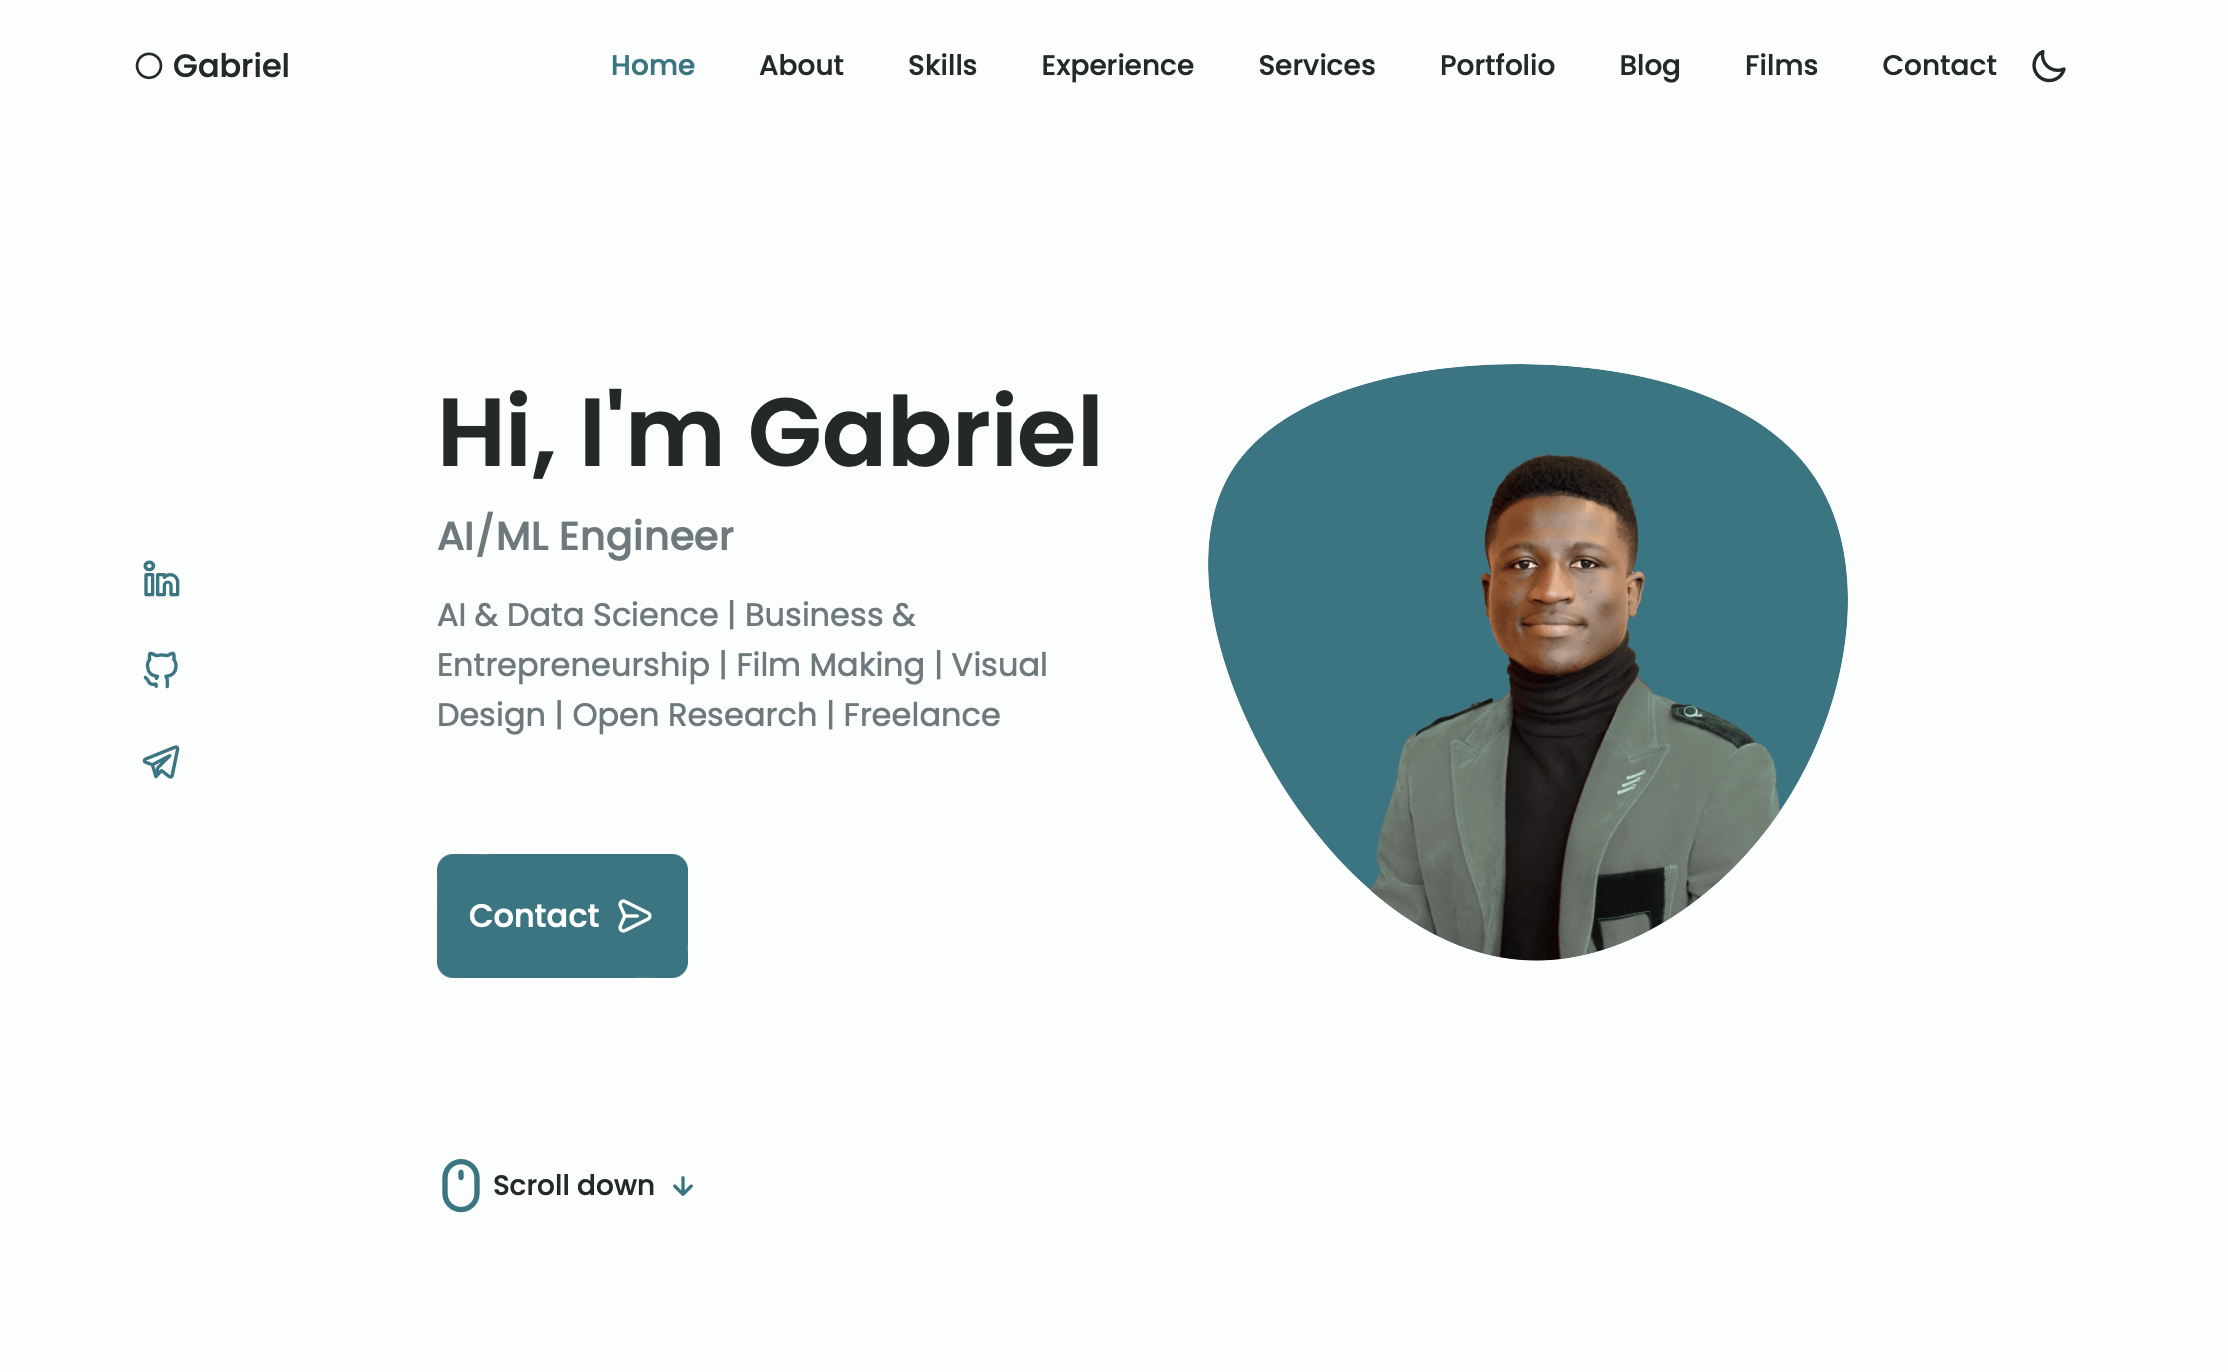
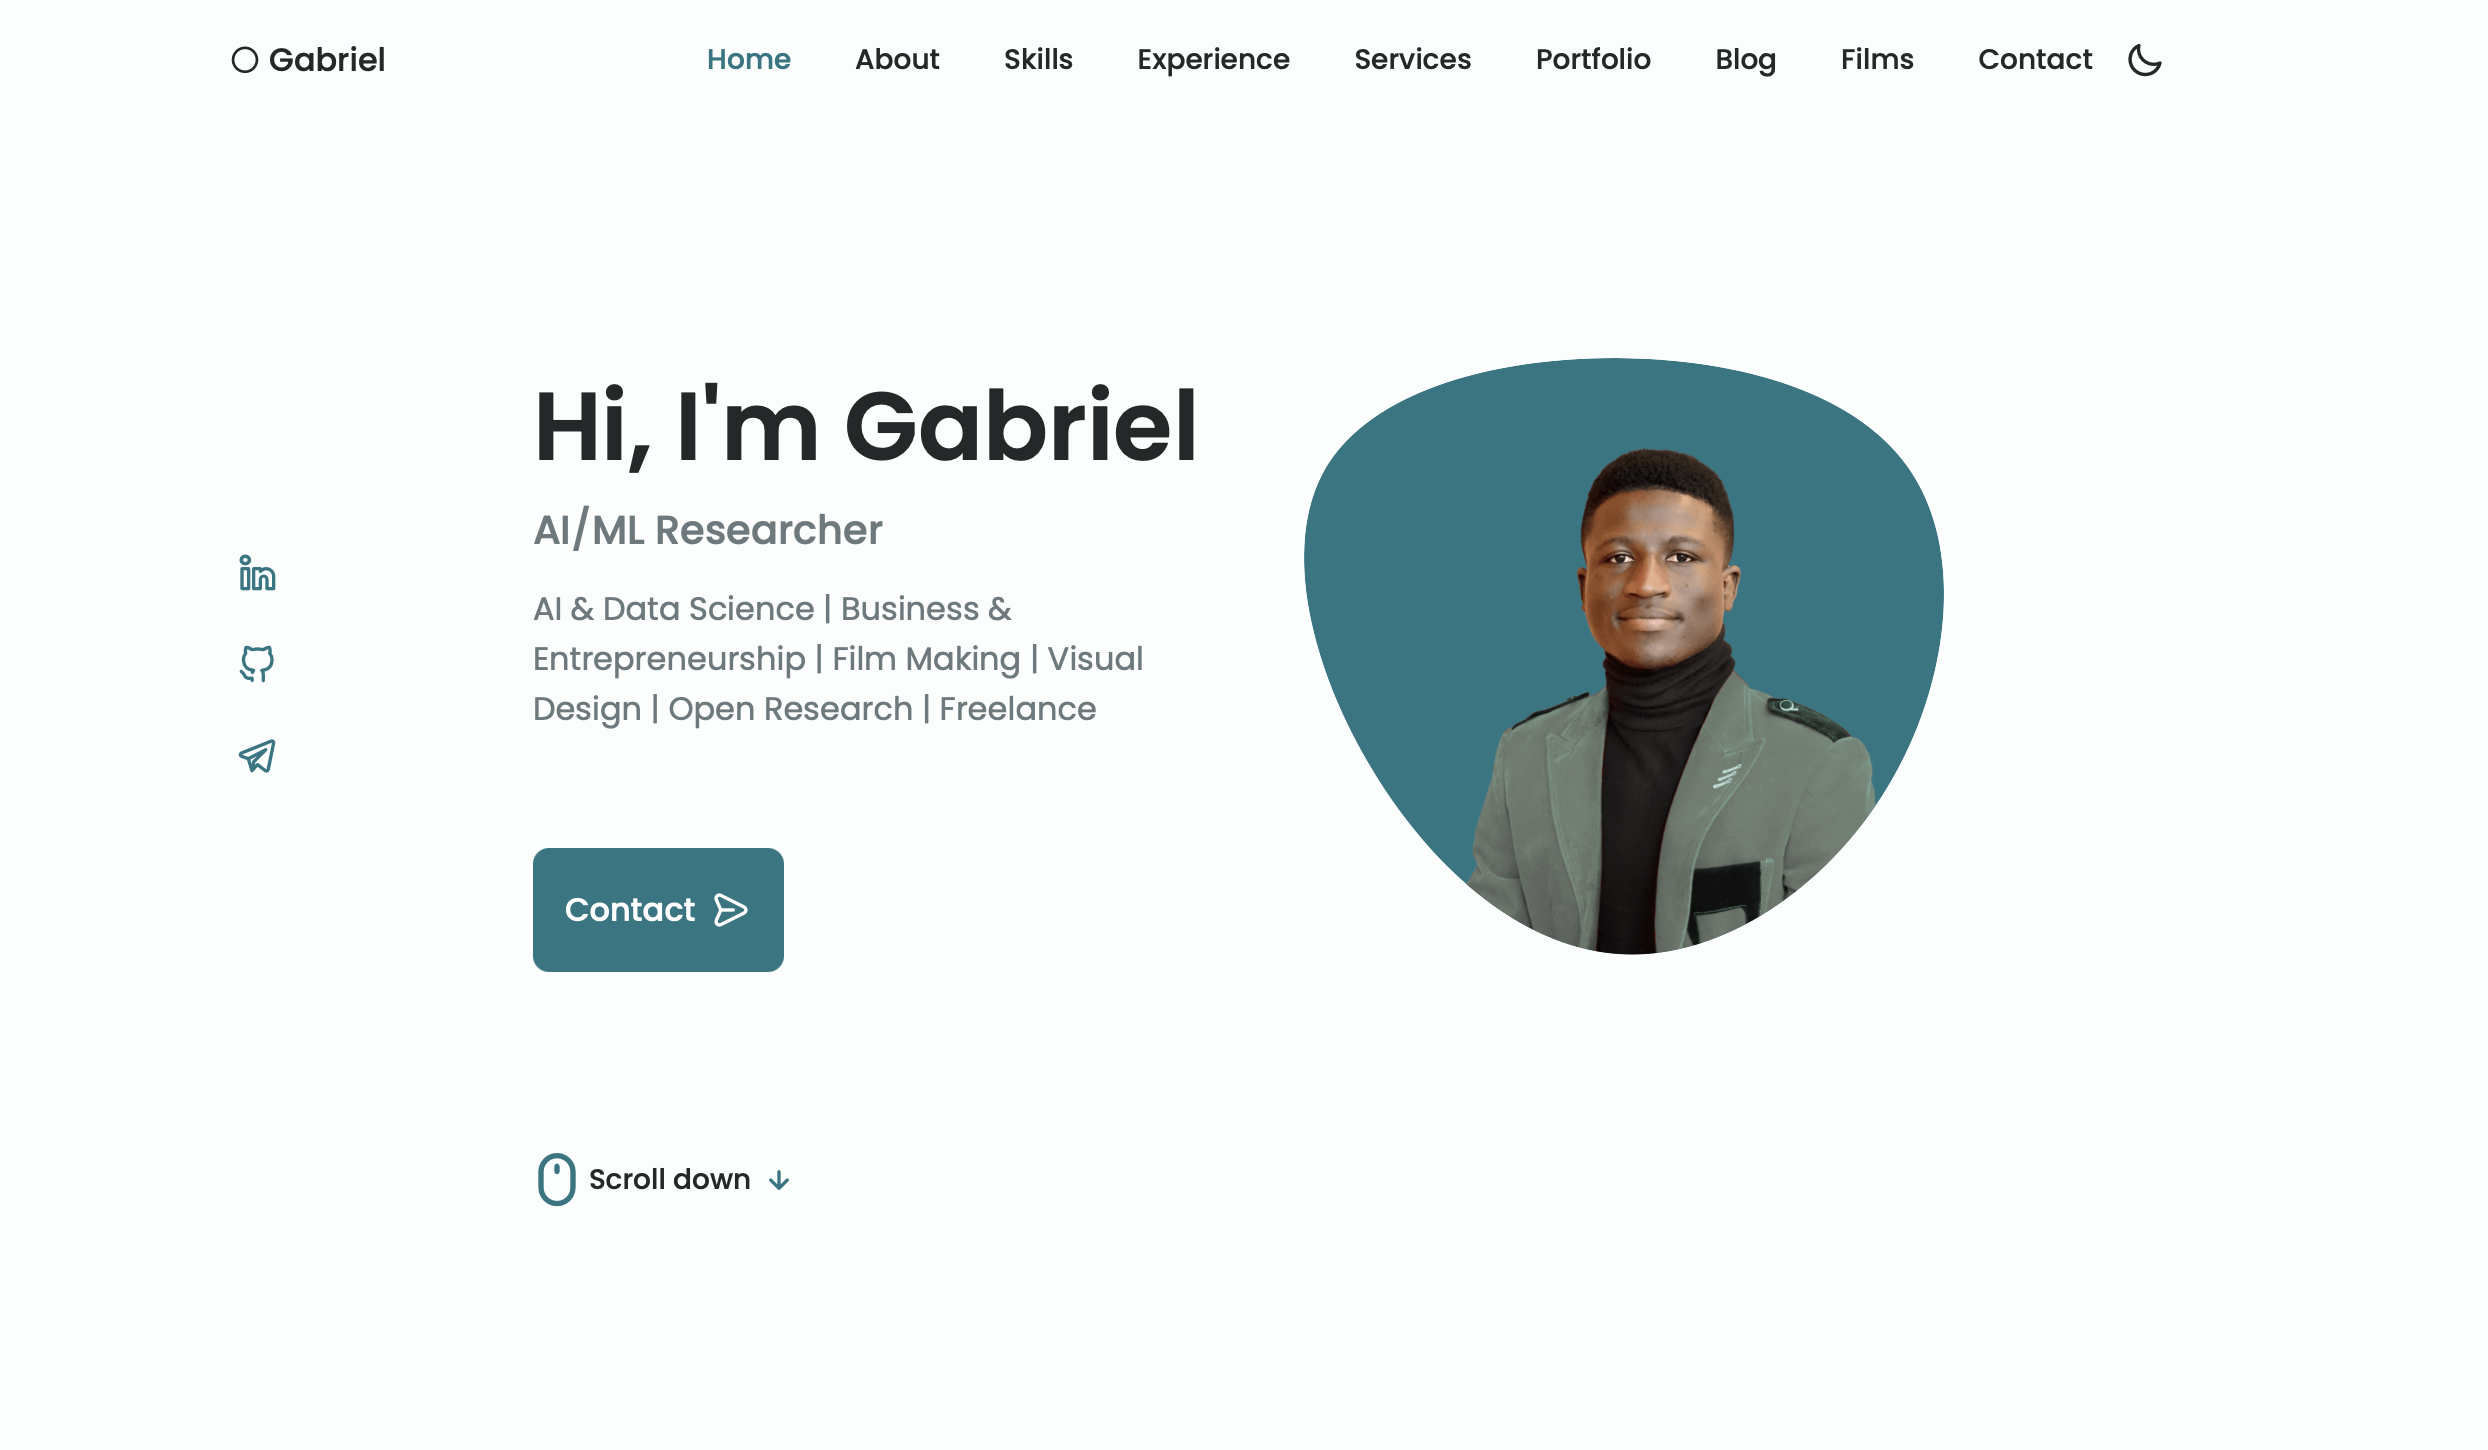
updated about, experience and portfolio sections

diff --git a/index.html b/index.html
@@ -162,7 +162,7 @@
 
             <div class="home__data">
               <h1 class="home__title">Hi, I'm Gabriel</h1>
-              <h3 class="home__subtitle">AI/ML Engineer</h3>
+              <h3 class="home__subtitle">AI/ML Researcher</h3>
               <p class="home__description">
                 AI & Data Science | Business & Entrepreneurship | Film Making |
                 Visual Design | Open Research | Freelance<br /><br />
@@ -192,15 +192,16 @@
 
           <div class="about__data">
             <p class="about__description">
-              I am a visionary founder, entrepreneur, and AI/ML engineer
-              dedicated to transforming industries through cutting-edge AI and
-              AR technologies driving growth and innovation.
+              I am a pioneering AI/ML researcher specializing in NLP, dedicated
+              to advancing industries through innovative language models and
+              real-world applications in education, healthcare, and automation.
               <br /><br />
 
-              As the founder of two emerging startups, GT Merch and GT Augment,
-              I lead efforts in technological innovation, with GT Merch already
-              securing grants and GT Augment attracting investor's interest for
-              its promising potential. <br /><br />
+              As the founder of GT Augment and GT Merch, I lead strategic
+              innovations that drive technological breakthroughs in AR. GT Merch
+              has successfuly secured grants and is expanding into more
+              countries.
+              <br /><br />
 
               Beyond the tech realm, I am a passionate filmmaker, bringing
               impactful stage plays and movies to life as a writer, director,
@@ -209,13 +210,13 @@
 
             <div class="about__info">
               <div>
-                <span class="about__info-title">02+</span>
+                <span class="about__info-title">03+</span>
                 <span class="about__info-name">Years in AI</span>
               </div>
 
               <div>
                 <span class="about__info-title">15+</span>
-                <span class="about__info-name">Projects</span>
+                <span class="about__info-name">AI Projects</span>
               </div>
 
               <div>
@@ -246,7 +247,7 @@
 
                 <div>
                   <h1 class="skills__title">AI & Data Science</h1>
-                  <span class="skills__subtitle">2+ Years XP</span>
+                  <span class="skills__subtitle">3+ Years XP</span>
                 </div>
 
                 <i class="uil uil-angle-down skills__arrow"></i>
@@ -275,8 +276,8 @@
 
                 <div class="skills__data">
                   <div class="skills__titles">
-                    <h3 class="skills__name">Computer Vision</h3>
-                    <span class="skills__number">75%</span>
+                    <h3 class="skills__name">Calculus & Linear Algebra</h3>
+                    <span class="skills__number">97%</span>
                   </div>
                   <div class="skills__bar">
                     <span class="skills__percentage skills__cv"></span>
@@ -286,7 +287,7 @@
                 <div class="skills__data">
                   <div class="skills__titles">
                     <h3 class="skills__name">Probability & Statistics</h3>
-                    <span class="skills__number">85%</span>
+                    <span class="skills__number">87%</span>
                   </div>
                   <div class="skills__bar">
                     <span class="skills__percentage skills__ps"></span>
@@ -296,7 +297,7 @@
                 <div class="skills__data">
                   <div class="skills__titles">
                     <h3 class="skills__name">Data Analytics & Visualization</h3>
-                    <span class="skills__number">80%</span>
+                    <span class="skills__number">90%</span>
                   </div>
                   <div class="skills__bar">
                     <span class="skills__percentage skills__dav"></span>
@@ -714,9 +715,7 @@
                 </div>
 
                 <div>
-                  <h3 class="qualification__title">
-                    MSc. Technological Entrepreneurship
-                  </h3>
+                  <h3 class="qualification__title">MSc. Computer Science</h3>
                   <span class="qualification__subtitle"
                     >Innopolis University, Russia</span
                   >
@@ -751,6 +750,26 @@
               id="work"
             >
               <div class="qualification__data">
+                <div></div>
+
+                <div class="qualification__time">
+                  <span class="qualification__rounder"></span>
+                  <span class="qualification__line"></span>
+                </div>
+
+                <div>
+                  <h3 class="qualification__title">AI Specialist</h3>
+                  <span class="qualification__subtitle"
+                    >GdeRadost, Moscow, Russia</span
+                  >
+                  <div class="qualification__calendar">
+                    <i class="uil uil-calendar-alt"></i>
+                    November 2024 - Present
+                  </div>
+                </div>
+              </div>
+
+              <div class="qualification__data">
                 <div>
                   <h3 class="qualification__title">Founder & ML Engineer</h3>
                   <span class="qualification__subtitle">GT Augment</span>
@@ -781,7 +800,7 @@
                   >
                   <div class="qualification__calendar">
                     <i class="uil uil-calendar-alt"></i>
-                    June 2024 - Present
+                    June 2024 - September 2024
                   </div>
                 </div>
               </div>
@@ -1096,7 +1115,7 @@
       <section class="portfolio section" id="portfolio">
         <h2 class="section__title">Portfolio</h2>
         <span class="section__subtitle"
-          >My works, projects & contributions</span
+          >Somo of my works, projects & contributions</span
         >
 
         <div class="portfolio__container container swiper-container">
@@ -1164,9 +1183,7 @@
               />
 
               <div class="portfolio__data">
-                <h3 class="portfolio__title">
-                  AI Telegram Bot for Latoken Candidates
-                </h3>
+                <h3 class="portfolio__title">Latoken AI Assistant</h3>
                 <p class="portfolio__description">
                   An AI bot developed to assist candidates applying to Latoken,
                   an AI + Web3 company. The bot provides details about the
@@ -1183,31 +1200,34 @@
                 </a>
               </div>
             </div>
-            <!-- 
+
             <div class="portfolio__content grid swiper-slide">
               <img
-                src="./assets/img/image-sr.png"
+                src="./assets/img/Fluorogram.webp"
                 alt=""
                 class="portfolio__img"
               />
 
               <div class="portfolio__data">
-                <h3 class="portfolio__title">Image Super-Resolution GAN</h3>
+                <h3 class="portfolio__title">Fluorogram Analysis Model</h3>
                 <p class="portfolio__description">
-                  Generating super-resolution images from low-resolution images
-                  using Super Resolution Generative Adversarial Network that
-                  looks photo-realistic.
+                  Developed a machine learning pipeline to improve diagnostic
+                  accuracy for thoracic abnormalities by analyzing over 10,000
+                  fluorographic images with advanced computer vision techniques.
+                  The project achieved a 20% increase in diagnostic precision,
+                  with results presented at Ftizisbiomed's AI in Healthcare
+                  symposium.
                 </p>
                 <a
-                  href="https://github.com/aksh-ai/image-super-resolution"
+                  href=""
                   class="button button--flex button--small portfolio__button"
                 >
-                  View
+                  Private
                   <i class="uil uil-arrow-right button__icon"></i>
                 </a>
               </div>
             </div>
-
+            <!-- 
             <div class="portfolio__content grid swiper-slide">
               <img
                 src="./assets/img/neuralBlack.png"

diff --git a/assets/css/styles.css b/assets/css/styles.css
@@ -570,16 +570,16 @@ img {
   width: 95%;
 }
 
-.skills__cv {
-  width: 75%;
+.skills__calculus {
+  width: 97%;
 }
 
-.skills__ps {
-  width: 85%;
+.skills__probability {
+  width: 87%;
 }
 
-.skills__dav {
-  width: 80%;
+.skills__data {
+  width: 90%;
 }
 
 .skills__python {

diff --git a/README.md b/README.md
@@ -2,7 +2,7 @@
 
 ### Here is an example of how this portfolio looks like:
 
-![Website screenshot](./assets/img/website_screenshot.png)
+![Website screenshot](assets/img/website_screenshot.png)
 
 Feel free to explore my work and projects by [visiting this portfolio](https://gabchung.com)
 
